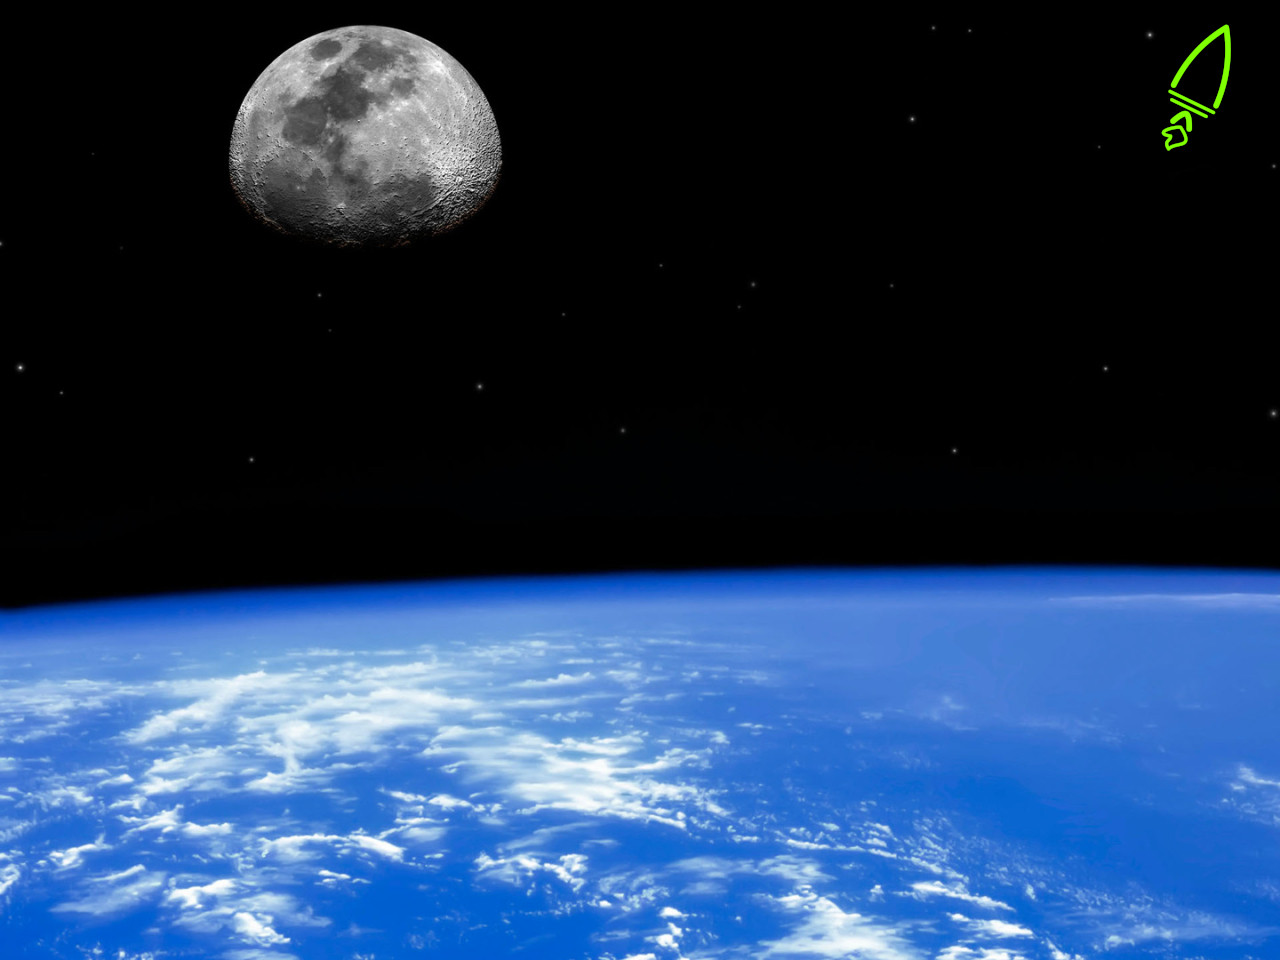
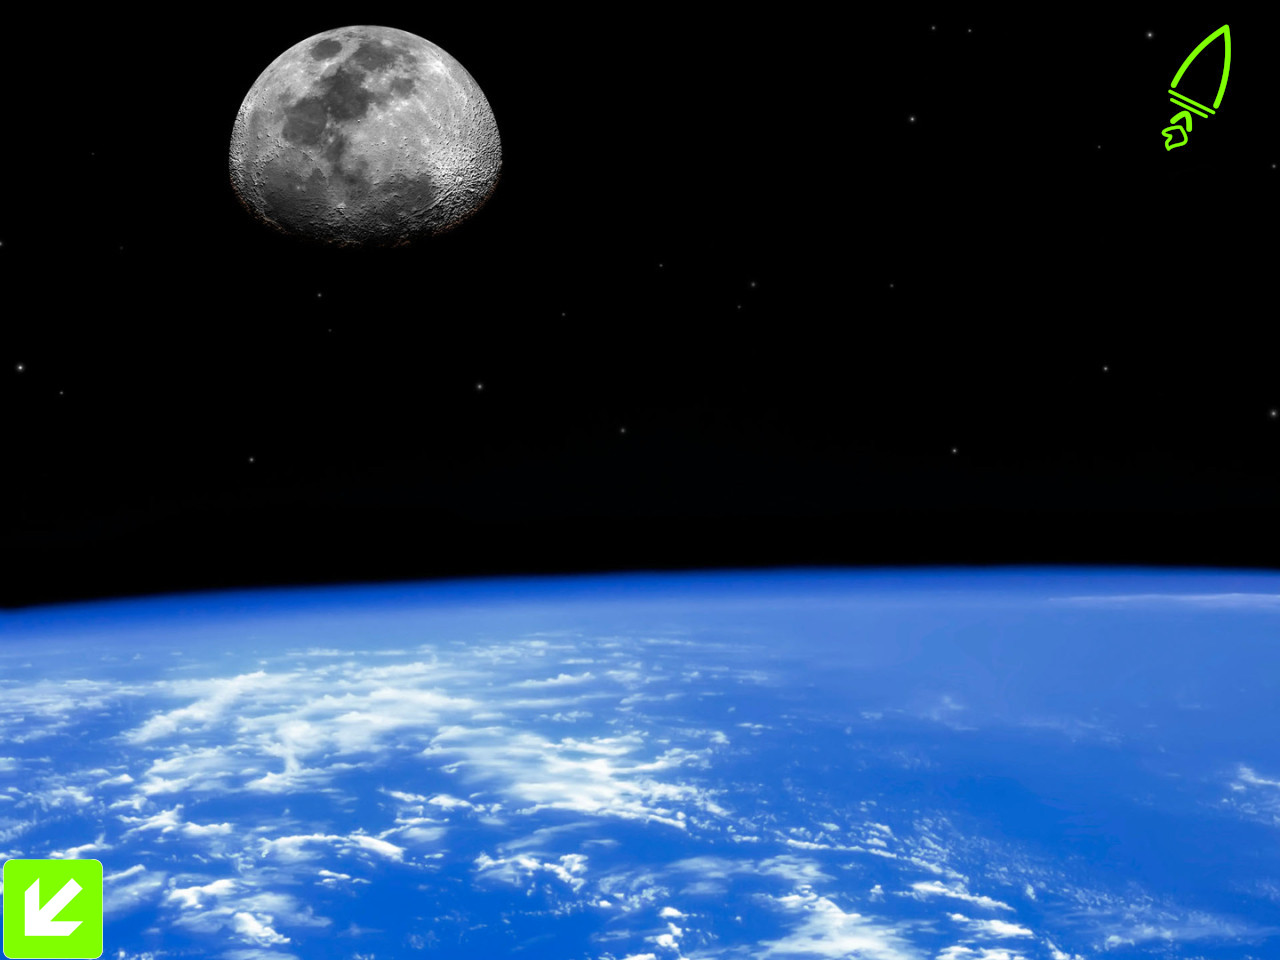
Direct Actions in Grid

Changed region(s): [[0.0, 0.875, 0.0938, 1.0]]

diff --git a/src/game/scenario/scenario.js b/src/game/scenario/scenario.js
@@ -88,6 +88,16 @@ export const scenario = {
                     content: {
                         objectId: 'away-from-earth-orbit-control'
                     }
+                },
+                {
+                    index: 8,
+                    contentType: CellContentTypes.ACTION,
+                    content: {
+                        action: ToolbarActions.ROOM_EXIT,
+                        payload: {
+                            targetRoomId: 'control-room'
+                        }
+                    }
                 }
             ]
         },
@@ -118,6 +128,49 @@ export const scenario = {
             actions: {
                 [ToolbarActions.ROOM_EXIT]: { targetRoomId: 'towards-earth' }
             }
+        },
+        {
+            _id: 'control-room',
+            title: 'Spaceship Control Room',
+            elemType: ElemTypes.ROOM,
+            // eslint-disable-next-line quotes
+            description: `This is your spaceship's control room.
+
+            In front of you there is the main control console. Above it the navigations panels allow you to set routes and jump-targets. Well actually the majority of the work is done by the ship's Artifical Intelligence (AI).
+            `,
+            image: images.spaceshipCoptit,
+            grid: [
+                {
+                    index: 5,
+                    contentType: CellContentTypes.ACTION,
+                    content: {
+                        action: ToolbarActions.ROOM_EXIT,
+                        payload: {
+                            targetRoomId: 'earth-orbit'
+                        }
+                    }
+                },
+                {
+                    index: 6,
+                    contentType: CellContentTypes.ACTION,
+                    content: {
+                        action: ToolbarActions.ROOM_EXIT,
+                        payload: {
+                            targetRoomId: 'earth-orbit'
+                        }
+                    }
+                },
+                {
+                    index: 7,
+                    contentType: CellContentTypes.ACTION,
+                    content: {
+                        action: ToolbarActions.ROOM_EXIT,
+                        payload: {
+                            targetRoomId: 'earth-orbit'
+                        }
+                    }
+                }
+            ]
         }
     ]
 };

diff --git a/src/engine/utils/ui-helpers/map-state-to-room.js b/src/engine/utils/ui-helpers/map-state-to-room.js
@@ -2,6 +2,7 @@ import { _ } from 'underscore';
 import { focusOnRoom, focusOnObject } from '../../redux/actions.js';
 import { CellContentTypes } from '../../cell-content-types.js';
 import { mapStateToActionsBar } from './map-state-to-actions-bar.js';
+import { mapGridActionToReduxAction } from './map-grid-action-to-redux-action.js';
 
 export const mapCellContentToActions = (focusedRoom = {}) => {
     const grid = focusedRoom && focusedRoom.grid;
@@ -22,6 +23,13 @@ export const mapCellContentToActions = (focusedRoom = {}) => {
             case CellContentTypes.OBJECT:
                 gridArray[gridItem.index] = {
                     action: focusOnObject(gridItem.content.objectId),
+                    active: true
+                };
+                break;
+
+            case CellContentTypes.ACTION:
+                gridArray[gridItem.index] = {
+                    action: mapGridActionToReduxAction(gridItem.content),
                     active: true
                 };
                 break;

diff --git a/src/engine/utils/ui-helpers/map-grid-action-to-redux-action.js b/src/engine/utils/ui-helpers/map-grid-action-to-redux-action.js
@@ -1,0 +1,15 @@
+import { ToolbarActions } from '../../toolbar-actions.js';
+import { moveHero } from '../../redux/actions.js';
+
+export const mapGridActionToReduxAction = gridContent => {
+    /* eslint-disable indent */
+    switch (gridContent.action) {
+        case ToolbarActions.ROOM_EXIT: {
+            return moveHero(gridContent.payload.targetRoomId);
+        }
+
+        default:
+            return undefined;
+    }
+    /* eslint-enable indent */
+};

diff --git a/src/game/images/index.js b/src/game/images/index.js
@@ -5,5 +5,6 @@ export const images = {
     intro1: require('./intro1.jpg'),
     intro2: require('./intro2.jpg'),
     earth: require('./earth.jpg'),
-    earthOrbit: require('./earth-orbit.jpg')
+    earthOrbit: require('./earth-orbit.jpg'),
+    spaceshipCoptit: require('./spaceship-coptit.jpg')
 };
